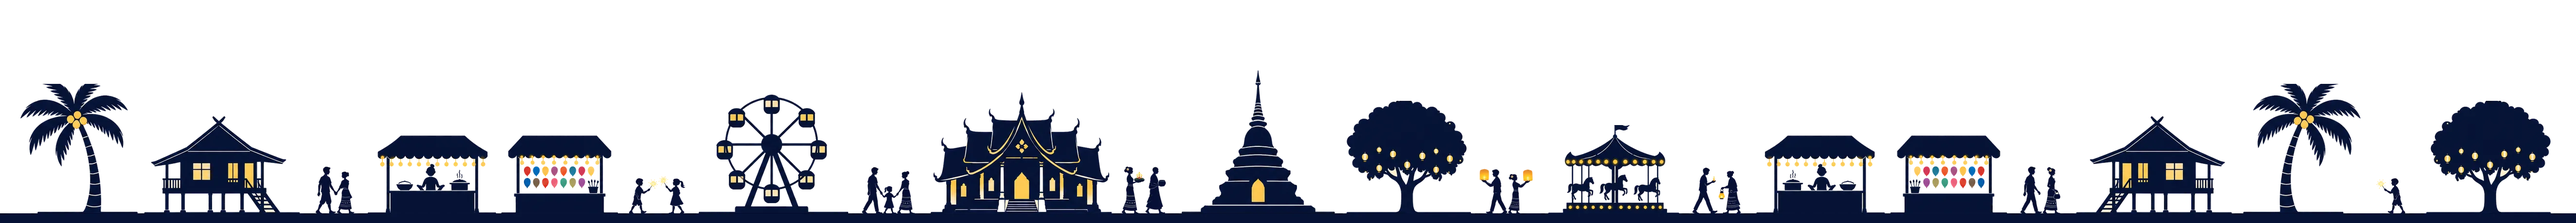
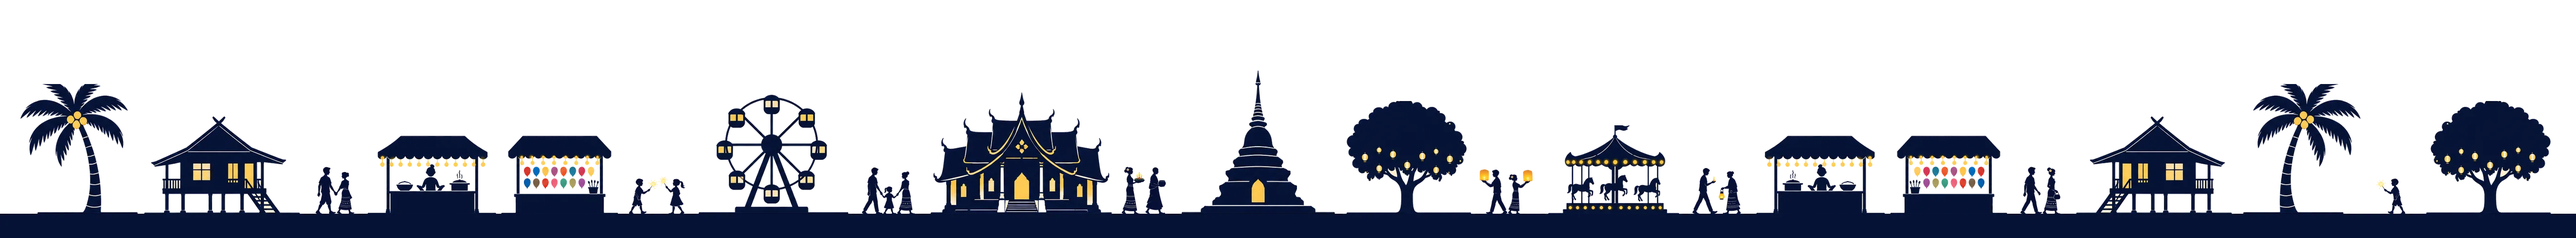
Draw drifting scenery on canvas so it never disappears; close gap above water
Claude-Session: https://claude.ai/code/session_01Hrzyz6QVa7tr5pUwbiB2rD

diff --git a/index.html b/index.html
@@ -9,7 +9,7 @@ html{height:100%;overflow:hidden;overscroll-behavior:none}
 body{position:fixed;inset:0;width:100%;height:100%;margin:0;overflow:hidden;overscroll-behavior:none;touch-action:manipulation;background:#0b1030;font-family:'Noto Sans Thai',system-ui,sans-serif;color:var(--ink)}
 #sky{position:absolute;inset:0;background:linear-gradient(#070a22,#1b1f5a 55%,#3a3a86)}
 #dusk{position:absolute;inset:0;background:linear-gradient(#0c1a4c 0%,#21418f 40%,#7a5590 58%,#d9774a 70%,#ffb062 82%,#ffd08a 100%);opacity:0;animation:dusk 70s ease-in-out infinite alternate}@keyframes dusk{0%,12%{opacity:0}88%,100%{opacity:1}}
-.scn{position:absolute;left:0;width:100%;overflow:hidden;pointer-events:none;z-index:1}.scn.far{bottom:28%;height:20vh;height:20svh;opacity:.92}.scn.near{bottom:25.5%;height:25vh;height:25svh}
+.scn{position:absolute;left:0;width:100%;overflow:hidden;pointer-events:none;z-index:1}.scn{display:block}.scn.far{bottom:25.5%;height:22vh;height:22svh;opacity:.92}.scn.near{bottom:24.5%;height:27vh;height:27svh}
 .scn .tr{display:flex;height:100%;width:max-content;animation:slide2 linear infinite;will-change:transform;backface-visibility:hidden}.scn.far .tr{animation-duration:240s}.scn.near .tr{animation-duration:190s}@keyframes slide2{from{transform:translate3d(0,0,0)}to{transform:translate3d(-50%,0,0)}}
 .scn img{height:100%;width:auto;flex:none;display:block;user-select:none;-webkit-user-drag:none}.scn img.fl{transform:scaleX(-1)}
 .scn .tw{animation:tw 2.2s ease-in-out infinite}.win{animation:win 5s ease-in-out infinite alternate}@keyframes win{to{opacity:.5}}
@@ -86,9 +86,22 @@ function burst(){const f=document.createElement('div'),h=rnd(0,360),c=`hsl(${h},
 setInterval(burst,1800);burst();setInterval(()=>{if(Math.random()<.5)setTimeout(burst,350)},1800);
 const waves=[[48,'#2a63b0',1.6,40,2],[38,'#4aa3dc',1.4,32,4],[28,'#86cdee',1.3,26,6],[18,'#b6e6f7',1.2,20,8]];
 waves.forEach(([h,c,amp,dur,z],n)=>{let d='M0,60';for(let x=0;x<=1200;x+=20)d+=` L${x},${(40+amp*3*Math.sin(x/600*6.283+n*1.3)).toFixed(1)}`;d+=' L1200,100 L0,100Z';const w=document.createElement('div');w.className='w';w.style.cssText=`height:${h}%;z-index:${z}`;w.innerHTML=`<svg viewBox="0 0 1200 100" preserveAspectRatio="none" style="animation-duration:${dur}s;animation-direction:${n%2?'reverse':'normal'}"><path d="${d}" fill="${c}"/></svg>`;document.body.appendChild(w)});
-/* ---------- drifting festival silhouettes (images in /bg) ---------- */
-{const mk=(cls,src,n,flip)=>{const d=document.createElement('div');d.className='scn '+cls;let h='';for(let i=0;i<n;i++)h+=`<img src="${src}" alt="" draggable="false"${flip&&i%2?' class="fl"':''}>`;d.innerHTML=`<div class="tr">${h}</div>`;document.body.appendChild(d)};
-mk('far','bg/far.webp',4,true);mk('near','bg/near.webp',2,false)}
+/* ---------- drifting festival silhouettes: drawn on small canvases (iPhone drops very wide moving layers) ---------- */
+{const layers=[];let rz;
+[{cls:'far',src:'bg/far.webp',mirror:true,dur:240},{cls:'near',src:'bg/near.webp',mirror:false,dur:190}].forEach(o=>{
+  const c=document.createElement('canvas');c.className='scn '+o.cls;document.body.appendChild(c);
+  const ly={...o,c,ctx:c.getContext('2d'),im:new Image(),tile:null,off:0};layers.push(ly);ly.im.onload=()=>size(ly);ly.im.src=o.src});
+function size(ly){const im=ly.im;if(!im.naturalWidth)return;const dpr=Math.min(devicePixelRatio||1,2),r=ly.c.getBoundingClientRect();
+  ly.c.width=Math.max(1,Math.round(r.width*dpr));ly.c.height=Math.max(1,Math.round(r.height*dpr));
+  const h=ly.c.height,w=Math.round(im.naturalWidth*h/im.naturalHeight),t=document.createElement('canvas');t.width=ly.mirror?w*2:w;t.height=h;
+  const g=t.getContext('2d');g.drawImage(im,0,0,w,h);if(ly.mirror){g.translate(w*2,0);g.scale(-1,1);g.drawImage(im,0,0,w,h)}
+  const old=ly.tile;ly.tile=t;ly.speed=t.width/ly.dur;if(old)ly.off=ly.off/old.width*t.width}
+let last=performance.now();
+function frame(now){const dt=Math.min(.1,(now-last)/1000);last=now;
+  for(const ly of layers){if(!ly.tile)continue;const {ctx,c,tile}=ly;ly.off=(ly.off+ly.speed*dt)%tile.width;ctx.clearRect(0,0,c.width,c.height);for(let x=-ly.off;x<c.width;x+=tile.width)ctx.drawImage(tile,x,0)}
+  requestAnimationFrame(frame)}
+requestAnimationFrame(frame);
+addEventListener('resize',()=>{clearTimeout(rz);rz=setTimeout(()=>layers.forEach(size),200)})}
 
 {const m=document.createElement('div');m.className='moon';m.innerHTML='<img alt="">';m.firstChild.src=MOON;sky.appendChild(m)}
 [[36,0],[53,-2],[69,-3.5]].forEach(([x,d],i)=>{const h=document.createElement('div');h.className='hl';h.style.cssText=`left:${x}%;animation-delay:${d}s;animation-duration:${4.6+i*.7}s`;h.innerHTML='<i></i><img alt="">';h.lastChild.src=LS[i];document.body.appendChild(h)});
